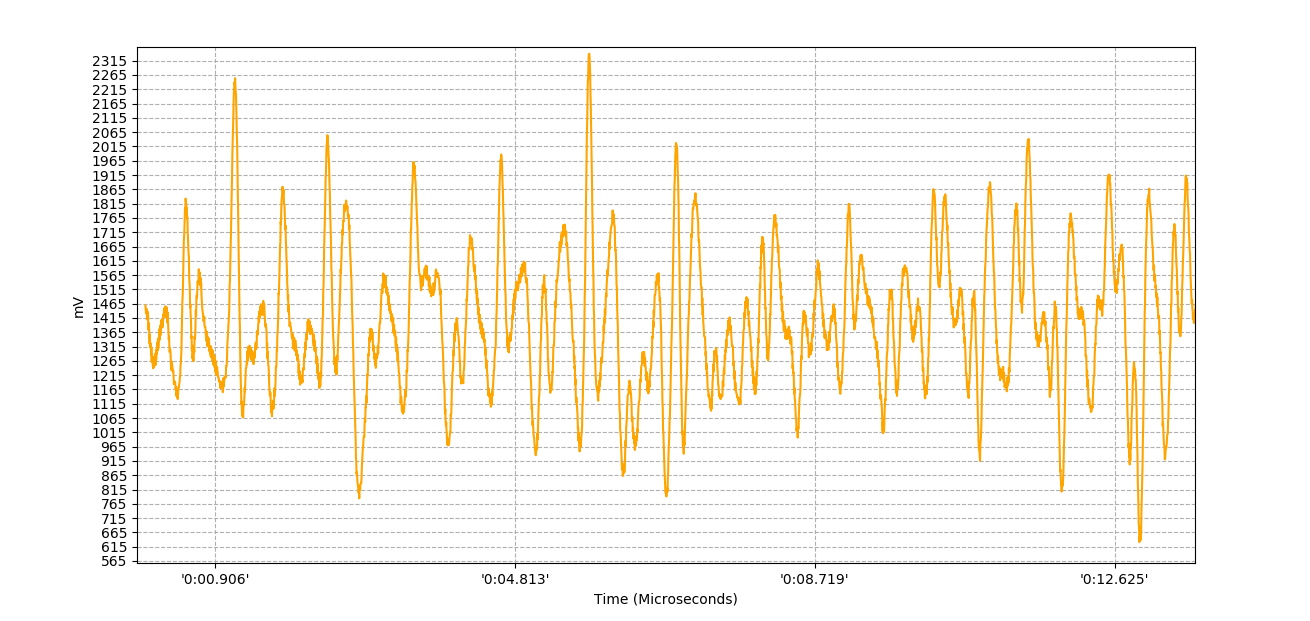
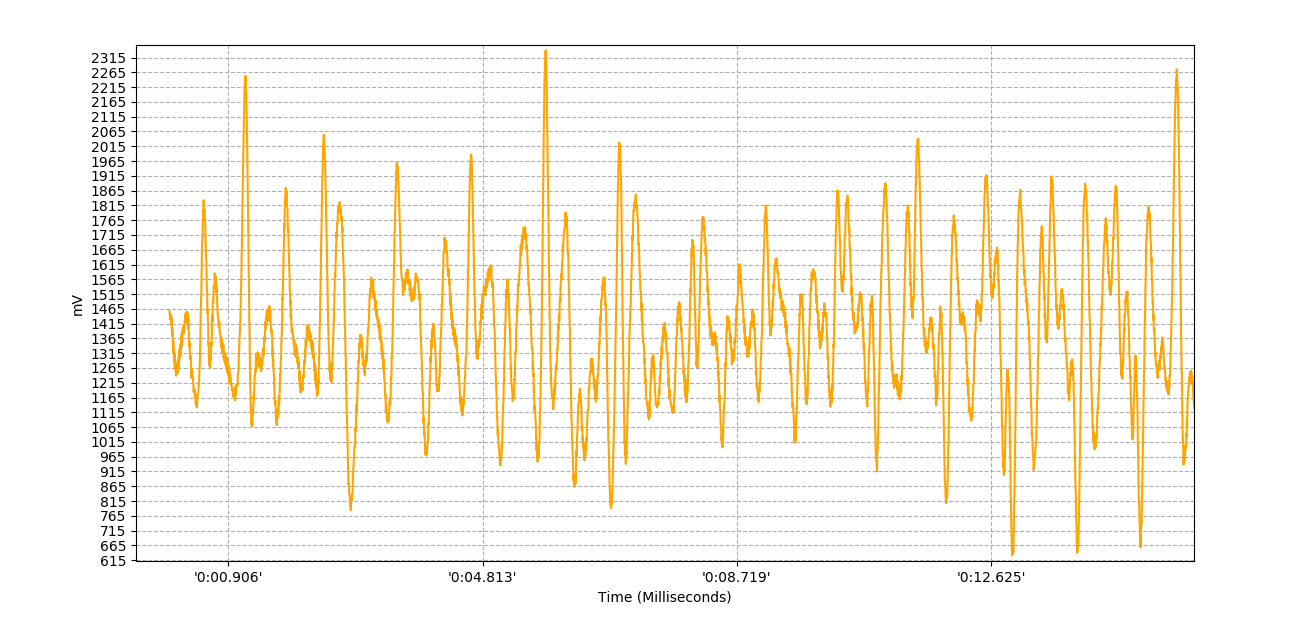
Graphs with fixed annotations

Changed region(s): [[0.0618, 0.0613, 0.9274, 0.9806]]

diff --git a/src/code/graph-generation/graph-generator.py b/src/code/graph-generation/graph-generator.py
@@ -26,12 +26,12 @@ ax.plot(x, y1, x, y2, x, y3, x, y4)
 ax.grid(linestyle='--')
 
 start, end = ax.get_ylim()
-ax.yaxis.set_ticks(np.arange(start, end, 50))
+ax.yaxis.set_ticks(np.arange(start, end, 75))
 
 start, end = ax.get_xlim()
 ax.xaxis.set_ticks(np.arange(start, end, 1000))
 
 plt.ylabel('mV')
-plt.xlabel('Time (Microseconds)')
+plt.xlabel('Time (Milliseconds)')
 
 plt.show()
